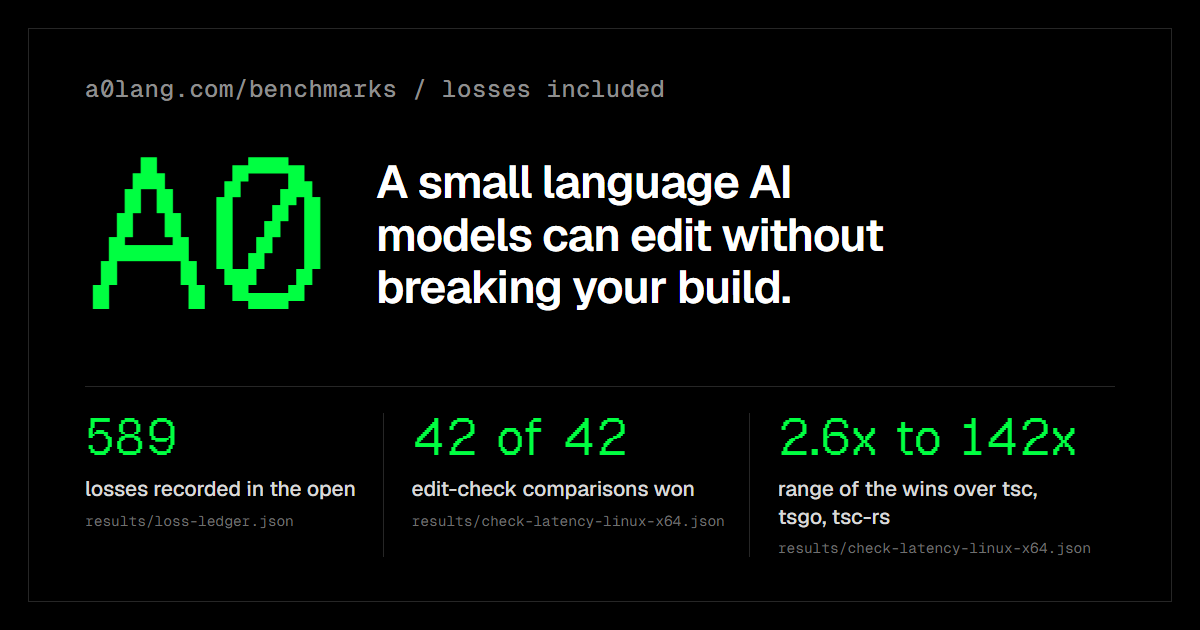
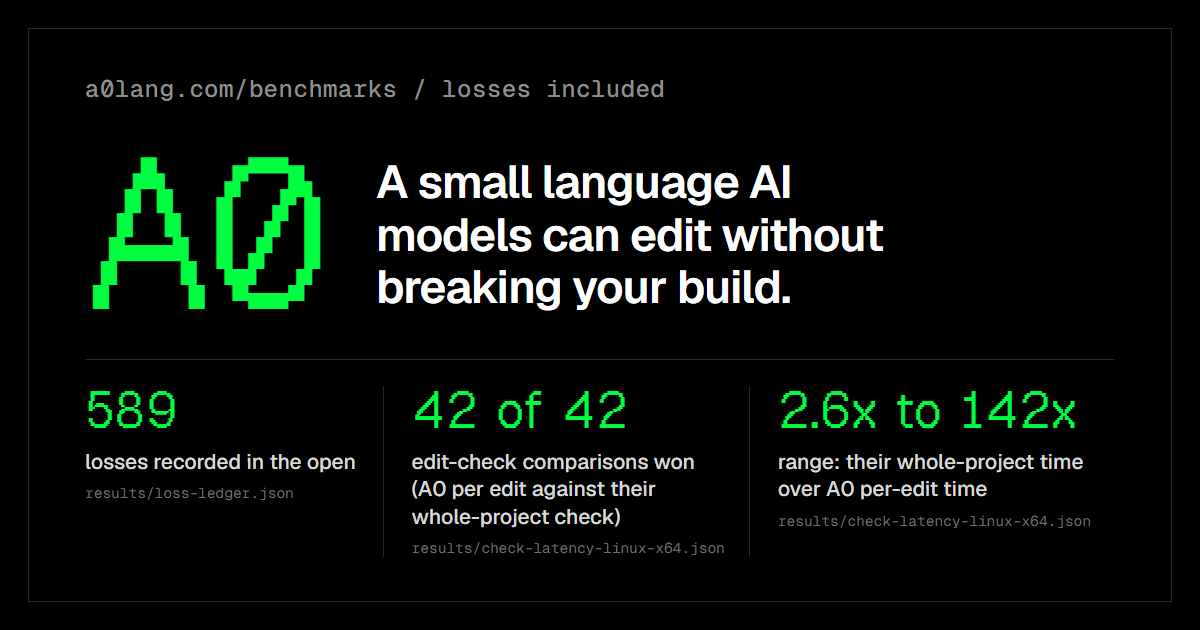
Share cards: honest wording (per-edit A0 check against whole-project checks), regenerated; metadata merged

Changed region(s): [[0.6475, 0.6032, 0.925, 0.8746], [0.3392, 0.6032, 0.6167, 0.8746], [0.0617, 0.6032, 0.3083, 0.8444]]

diff --git a/tools/og-cards.ts b/tools/og-cards.ts
@@ -71,7 +71,7 @@ export async function computeCards(root = '.'): Promise<readonly Card[]> {
     {
       file: 'home.png',
       kicker: 'a0lang.com',
-      alt: `A0: ${PITCH} Sonnet got ${sonnet.acceptedCount} of ${sonnet.n} front-end edits accepted; the edit check ran ${x(lo)} to ${x(hi)} faster than tsc, tsgo and tsc-rs.`,
+      alt: `A0: ${PITCH} Sonnet got ${sonnet.acceptedCount} of ${sonnet.n} front-end edits accepted; one edit is checked in ${fast.toFixed(0)} to ${slow.toFixed(0)} ms, where tsc, tsgo and tsc-rs re-check the whole project.`,
       stats: [
         {
           big: `${sonnet.acceptedCount} of ${sonnet.n}`,
@@ -79,8 +79,8 @@ export async function computeCards(root = '.'): Promise<readonly Card[]> {
           source: 'results/app-edit-keys.json',
         },
         {
-          big: `${x(lo)} to ${x(hi)}`,
-          label: 'faster edit check than tsc, tsgo, tsc-rs',
+          big: `${fast.toFixed(0)} to ${slow.toFixed(0)} ms`,
+          label: 'to check one edit in A0 (tsc, tsgo, tsc-rs re-check the whole project)',
           source: latSrc,
         },
       ],
@@ -113,10 +113,14 @@ export async function computeCards(root = '.'): Promise<readonly Card[]> {
           label: 'losses recorded in the open',
           source: 'results/loss-ledger.json',
         },
-        { big: `${wins} of ${edits.length}`, label: 'edit-check comparisons won', source: latSrc },
+        {
+          big: `${wins} of ${edits.length}`,
+          label: 'edit-check comparisons won (A0 per edit against their whole-project check)',
+          source: latSrc,
+        },
         {
           big: `${x(lo)} to ${x(hi)}`,
-          label: 'range of the wins over tsc, tsgo, tsc-rs',
+          label: 'range: their whole-project time over A0 per-edit time',
           source: latSrc,
         },
       ],

diff --git a/docs/design/site-audit-2026-10-07.md b/docs/design/site-audit-2026-10-07.md
@@ -1,0 +1,102 @@
+# a0lang.com live audit, 2026-10-07
+
+Method: real headless Chrome (chrome.exe, new headless, software GL, no GPU) over CDP against the live site. Mobile = 390x844, DPR 2,
+touch emulation, iPhone UA. Scripts live in the session scratchpad (`aud/`). All numbers are single runs unless noted; headless software
+compositing caps frame rate at 30 fps in places, so frame pacing numbers are pessimistic.
+
+## Prioritized findings
+
+### 1. HIGH: header overflows the viewport at 390px on all three pages (GitHub icon cut off)
+- Evidence: `innerWidth` reports 422 at a 390 device width (layout viewport grew by 32 px). `header.top` right=422, `nav.nav` w=398, `.hright` right=410,
+  `a.ico-gh` right=410 against clientWidth 390. Screenshots show the GitHub glyph sliced at the right edge on home, docs and benchmarks. On a real
+  iPhone this means either a zoomed-out page (min-scale) or a sideways pannable page. Landscape 844x390 is fine (scrollWidth 876 = innerWidth 876).
+- Fix: `site/gen/style.css` lines ~422 and ~254/343 (the 480px and 640px nav rules). At <=480px the nav's min-content is 398 px (brand 27 + Docs + Benchmarks +
+  80 px icons + gaps 8-12 + padding 12 x 2). Drop `.links a` to `.8rem` and `.links{gap:6px}`, `.nav{gap:6px}`, and add `.nav{min-width:0}` `.links{min-width:0;flex:1 1 auto}`; or hide the X
+  icon below 400px (it is also in the footer). Add a regression probe `document.documentElement.scrollWidth <= innerWidth` at 360, 390, 414.
+
+### 2. HIGH (a11y): `aria-live="polite"` on the whole `<main id="app">`
+- Evidence: present in `site/index.html`, `docs.html`, `bench.html` and the prerender (`main#app[aria-live=polite]`). The page program re-renders this region
+  (home: 693 DOM nodes mutate in the first 440 ms, bench up to 10,790 nodes), so a screen reader may announce hydration/re-render churn.
+- Fix: remove `aria-live` from the three `site/*.html` shells (owner: the html templates emitted by `tools/site-build.ts`); put `aria-live` only on the one small status element that actually changes (e.g. the live sentinel readout).
+
+### 3. MEDIUM: benchmarks page has no `<h1>`
+- Evidence: axe `page-has-heading-one` (moderate) on /benchmarks; home h1 is "A0", docs h1 is "Docs". The prerendered bench HTML starts at `<h2>`.
+- Fix: `site/gen/bench.tpl` add `<h1>Benchmarks</h1>` (visually the same as docs). Also home: the real headline ("A small language AI models can edit...") is an `<h2>` under h1 "A0"; consider h1 = headline for SEO/outline (`site/gen/page.tpl`).
+
+### 4. MEDIUM (a11y): in-text links distinguishable only by colour (axe `link-in-text-block`, serious, 3 nodes on every page)
+- Evidence: footer paragraph links `@joesimo`, `GitHub`, `Sponsor` (`p:nth-child(2) > a`) have 1.61:1 contrast against surrounding text (need 3:1) and no underline (`.foot a{text-decoration:none}`).
+- Fix: `site/gen/style.css` line 140: `.foot a{text-decoration:underline;text-underline-offset:3px}` (or border-bottom). Also fixes the tiny tap area below.
+
+### 5. MEDIUM (a11y): scrollable code block lacks keyboard-reachable content for axe (`scrollable-region-focusable`, serious, home `#try > pre`)
+- It IS tab-focusable (outline `auto 1px`, only 1 px, colour rgb(238,238,238)), axe still flags it. Fix: add `tabindex="0"`, `role="region"` and `aria-label="Install commands"` to the `#try` `<pre>` in `site/gen/page.tpl`, and give `pre.code:focus-visible` a 2px outline in `style.css`.
+
+### 6. MEDIUM: no caching for the app shell, wasm and JS (every visit revalidates)
+- `curl -sI`: `/page.wasm`, `/app.js`, `/*.html`, `/sentinel.wasm`, `/live/*.js`, `/wire.js`, `/favicon.svg`, `/results/*` all `Cache-Control: public, max-age=0, must-revalidate`. Only `/fonts/*` is `max-age=31536000, immutable` (and is brotli-less: woff2 already compressed, fine).
+- Transfer on a cold visit: home 222,663 B over 16 requests (fonts 141 KB of that; page.wasm 25.9 KB, sentinel.wasm 15.6 KB, app.js 8.3 KB, 7 small `/live/*.js` files 1.7-3.3 KB each); docs 197,311 B / 9 req; bench 238,286 B / 9 req (bench.wasm 58.4 KB). Home needs 16 requests, 9 of them for live.js and its 6 modules plus sentinel.wasm: a waterfall of small modules.
+- Fix: `tools/site-build.ts` VERCEL `headers` (and therefore ROOT_VERCEL): add `{source:'/(.*)\\.wasm', ...}` and `/(.*)\\.js` with `Cache-Control: public, max-age=300, stale-while-revalidate=86400` (cheap, safe) or content-hash the filenames and use `immutable`. Optionally bundle `site/live.ts` + `site/live/*.ts` into one file (7 requests -> 1) in the same build script. Add `<link rel=modulepreload>` for live.js and `<link rel=preload as=fetch crossorigin>` for sentinel.wasm.
+
+### 7. MEDIUM: `prefers-reduced-motion` stops the sentinel but not everything
+- Evidence (home, emulated `reduce`): sentinel frames in 2 s: 129 -> 0 (good, loop stops, `running:true` but idle; rain canvas freezes, screenshots a/b identical). Remaining: `html{scroll-behavior:smooth}` still computes `smooth` under reduce; the hero `rise` animation (`H1.name`, `P.tag`) is still declared (it finishes in 0.6 s but is not disabled); bench bar `transition` is disabled correctly.
+- Fix: `site/gen/style.css` line 5 / 200 / 415: add `@media (prefers-reduced-motion:reduce){html{scroll-behavior:auto}.hero .name,.hero .tag,.hero .sub{animation:none}}`.
+
+### 8. MEDIUM (mobile UX): first viewport on phones has no CTA and no readable value proposition
+- Evidence (390x844): `h1` "A0 / for AI" at y=661..712 (54 px type) in the lower third; viewport above it is rain + sentinel only. The real headline `<h2>` and the Install / Benchmarks pills are 1 screen down (pills at ~y 1490 of 844). Interactive items in the first viewport: only header links.
+- Fix: `site/gen/style.css` `.hero` height on mobile: `@media(max-width:640px){.hero{min-height:0;height:62svh}}` so the headline block and "Install" pill land above the fold, or move the pill row into the hero in `site/gen/page.tpl`. Use `svh` not `vh` (home `.stage` is fixed at 914 px tall at 844 viewport: `DIV.stage` h=914, `CANVAS` 422x914, i.e. it follows the large viewport and resizes when browser chrome hides, risking resize jank/CLS in `site/live.ts onResize`).
+
+### 9. LOW/MEDIUM: tap targets under 44 px (mobile, listed)
+Home: `a.brand` "A0" 27x32; header "Docs" 32x44 (width <44); `a.ico-x`, `a.ico-gh` 40x40; `a.pill` Install 57x34, `a.pill.ghost` 251x34 (height 34); footer `@joesimo` 61x18, `GitHub` 43x18, `Sponsor` 52x18.
+Docs: brand, Docs, two icons, "Configurations for other agents" 228x21, 3 footer links (18 px high).
+Bench: brand, Docs, icons 40x40, 5 `summary` toggles ("Show all 4x languages") 358x41, 3 footer links.
+- Fix: `style.css`: `.pill{min-height:44px}`, `.ico{width:44px;height:44px}`, `.brand{min-width:44px;min-height:44px;display:inline-flex;align-items:center}`, `.foot a{display:inline-block;padding:13px 6px}`, `details>summary{min-height:44px}`. (Header links already have `min-height:44px` at line 359; widen padding for Docs.)
+
+### 10. LOW: text below 13 px
+- Mobile: only 2 text nodes (both home pill labels, `a.pill` and `a.pill.ghost`, 12.8 px = .8rem at <=640px, line 356). Docs 0, bench 0. Fix: raise `.pill` to `.875rem` at line 254/356.
+
+### 11. LOW: mobile sticky chips rail (benchmarks)
+- `nav.rail` is `position:sticky; top:56px; height:57px; width:390` and works under the 56 px header (screenshots show it pinned, "Native speed" active chip green). Issues: first chip "Method" touches the left screen edge (0 px gutter, border clipped), and body text bleeds through the rail's translucent background (chip row is readable but headline text is visible behind it). Fix: `.rail{padding-left:16px;scroll-padding-left:16px}` and a more opaque background (`style.css` `.rail`).
+- 55+ `td/th` are `position:sticky` (first column), fine; wide tables (`table.ops.rank`, 540-583 px) sit in `.tblwrap` scrollers and legible; bar charts and tables screenshot cleanly at 390 (labels wrap, numbers readable).
+
+### 12. LOW (SEO/sharing)
+- `twitter:card` is `summary` and there is NO `og:image` / `twitter:image` on any page (home, docs, bench) so shares render without a preview image. Fix: add a 1200x630 PNG to site/ and emit `og:image`, `og:site_name`, `twitter:image`, `twitter:card=summary_large_image` in `site/gen/*.tpl` / `tools/site-build.ts`.
+- 404: Vercel plain-text "The page could not be found / NOT_FOUND" (79 B, text/plain, no nav, no link home). Fix: emit `site/dist/404.html` (a page with the header and a link to / and /docs/) in `tools/site-build.ts`.
+- `sitemap.xml` has no `<lastmod>` and lists non-HTML (`/llms.txt`, `/primer.txt`); harmless. `robots.txt` (63 B) OK. Also no JSON-LD (SoftwareSourceCode/WebSite) -- optional.
+- Cache for `/robots.txt`/`/sitemap.xml` is `max-age=0` and they are not compressed (tiny, fine).
+
+### 13. INFO: performance (cache disabled, 1280x800 unless noted; software rendering)
+| page | FCP/LCP ms | LCP element | CLS | long tasks (start,dur ms) | JS heap | nodes | h1 exists |
+|---|---|---|---|---|---|---|---|
+| home | 360 / 360 | `a` (brand text) | 0 | 1 (123, 171) | 1.8 MB | 693 | 295 ms |
+| docs | 676 / 676 | `p` | 0.007 | 1 (573, 76) | 1.1 MB | 682 | 573 ms |
+| bench | 624 / 624 | `p.take` | 0.0009 | 3 (387,211) (680,76) (1023,92) | 1.1 MB | 6,309 | n/a (no h1) |
+| mobile home | 248 / 368 | `a` | 0 | 1 (243, 73) | 2.2 MB | 693 | 214 ms |
+| mobile docs | 436 / 480 | `pre.code` | 0 | 0 | 1.2 MB | 684 | 418 ms |
+| mobile bench | 276-544 (3 runs; one outlier 2,640) | `p.take` | 0 | 2 each (~250 ms and ~75-100 ms) | 1.2-1.4 MB | 6,309-10,790 | n/a |
+- The prerender paints first (FCP == LCP, h1 present in the served HTML), then the wasm page program re-renders (last DOM mutation at 443 ms home, 862 ms docs, 1,115 ms bench desktop). No layout shift from the swap (CLS <= 0.007): excellent.
+- Bench has a 250 ms main-thread task right after load (mobile, un-throttled!) plus 70-110 ms tasks: the page program rebuilds ~6-10 k nodes. At 4x CPU throttle this will be ~1 s. Fix: `site/app.ts` should skip re-rendering when the prerendered DOM already equals the program output (hydration check), or render sections lazily (`content-visibility:auto` on `section` in `style.css`, only 8 `details` open).
+- Mobile bench single outlier LCP 2,640 ms (first run) vs 276-544 ms in three reruns: the first request after cold start, not reproducible; ignore but watch.
+
+### 14. INFO: sentinel frame cost (home, `a0Live.stats()`, 5 s of mouse movement)
+- 1x: JS frame cost avg 1.35-1.44 ms, p95 1.7-2.2 ms, max 7.9-8.9 ms, interval avg 16.7 ms; rAF intervals p50 16.7, p95 33.3 (software compositing; 30 of 343 frames at 33 ms), max 33.4; zero long tasks; ScriptDuration ~11% of wall.
+- 4x CPU throttle: cost avg 6.3 ms, p95 11.6, max 42.3; rAF interval p50 33.3, p95 50.1, p99 83, max 183; 17 long tasks (50-92 ms) in 21 s; stats shows `quality:60` so the adaptive quality governor engages (good). On a 4x-slower phone this means ~30 fps and some 50-90 ms stalls: consider a lower rain count (`site/live.ts`) when `quality<80` and pausing the loop when the hero is offscreen (home scrolled past the stage shows `running:true` frames continuing: 1,019 frames after scroll tests).
+
+### 15. INFO: touch behaviour (sentinel and scrolling)
+- Listeners (recorded via patched addEventListener): `pointermove` x2, `pointerdown`, `pointerup`, `pointercancel` on window, `pointerleave` on html, `scroll` on window -- ALL `{passive:true}`; no `touchstart/touchmove/wheel` listeners exist, so nothing can block scrolling.
+- Swipes via `Input.dispatchTouchEvent` (12 moves x 30 px = 360 px finger travel, 5 swipes): scrollY change 345, 345, 345 (+ a fling to 498), 345 px per swipe; inertial fling continues in the 3rd (275 first swipe includes warm-up). `touch-action` is `auto` on body, html, canvas and `.stage`: scrolling smooth.
+- Sentinel: finger at (110,205) moved the mesh centre to about (158,240) CSS px with visible lag (follows, eases toward touch); stats keep running (frames +35 during horizontal touch). Screenshot `shots/touch-hold.png`.
+- Orientation (844x390): no horizontal overflow on any page (scrollWidth == innerWidth 876), home h1 at y=206 inside the 390 px height; bench has no h1. 
+
+### 16. INFO: no-JS (`Emulation.setScriptExecutionDisabled`)
+- Static prerender reads well on all three: home h1 + 7 `h2`, 3,678 chars of text, 2 code blocks; docs 8,901 chars, 11 `h2`, 11 rail links, 10 `pre`; bench 31,724 chars, 12 `h2`, 8 tables, 5 `details`, 16 bar `.chart` elements all visible (CSS bars, no canvas).
+- Missing without JS: rain canvas and sentinel (expected, 0 canvases), home sticky rail (0 links vs 11 on docs/bench; home has none anyway), the hero looks empty for the whole first screen (screenshot `shots/nojs-home.png`: "A0 ... for AI" at y=580-690 on a black 800 px screen with the sub-copy below the fold). No `<noscript>` anywhere. Fix: none needed; optionally hide `.stage` space (`hero{min-height:50vh}` via `html:not(.js)`) in `style.css`.
+
+### 17. INFO: keyboard
+- Tab x40 on home: skip link (first stop, green 2 px outline, off 2 px, visible) -> brand -> Docs -> Benchmarks -> Sponsor -> X -> GitHub -> Install -> Benchmarks pill -> `pre#try` -> @joesimo -> GitHub -> Sponsor -> BODY (leaves the document) -> repeats. No focus trap; order matches visual order. Outline widths: 2 px solid rgb(189,189,189) (off 3) on links, green rgb(0,255,65) off -4 on icon buttons, 1 px `auto` on the `pre` (weak). No invisible rings (every stop `:focus-visible` true, outline-style not none). Header is fixed so `scroll-padding-top:80px` keeps focused items out from under it.
+- Contrast (computed WCAG ratios for 27 / 20 / 56 unique visible text styles on home/docs/bench against the effective composited background, large-text threshold 3:1): 0 under 4.5:1 and none within 1.5 of the threshold. axe lists `color-contrast` as incomplete for 47 / 83 / 77 nodes because home text is over the canvas; my pixel-free calc treats the page background (#000-ish) as base. The rain is dim green (<= ~10% luminance), so no practical risk, but a real-pixel check on the hero is advisable.
+
+## What is already excellent
+- Static prerender: FCP == LCP at 250-680 ms, hydration swap has CLS <= 0.007, content is complete with JS off.
+- Brotli on HTML, wasm (202,235 -> 25,766 B), app.js (23,117 -> 8,076 B); fonts immutable one-year cache; whole home page 223 KB; JS heap 1-2 MB.
+- Strict CSP, nosniff, DENY framing, referrer and permissions policies; canonical, description, og:title/description/url on every page; robots.txt, sitemap.xml, llms.txt (+primer, docs, full guide) all reachable and well formed.
+- All input listeners passive, no touch/wheel handlers; swipes track finger 1:1 (345 px per 360 px); sentinel follows touch; adaptive quality governor; loop stops under `prefers-reduced-motion`.
+- Skip link, logical Tab order, no traps, visible focus rings, text >= 13 px almost everywhere (2 exceptions on mobile), zero contrast failures, no horizontal overflow in landscape, charts are real HTML/CSS (no canvas) and tables remain legible at 390 px.
+- axe: only 3-4 rule hits per page, none critical; no missing alt, labels, lang or landmark errors.
